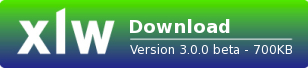
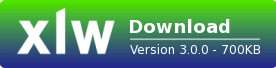
update docs for version 3 final release

Changed region(s): [[0.029, 0.1176, 0.9565, 0.7941], [0.9855, 0.0, 1.0, 0.0294], [0.9275, 0.5588, 0.9565, 0.5882]]

diff --git a/trunk/xlw-site/xlw.css b/trunk/xlw-site/xlw.css
@@ -211,7 +211,6 @@ dd { margin-left: 18px; }
 }
 
 .imglink:focus, .imglink:hover, .imglink:active, .imglink:visited {
-    background-color: transparent; /* override doxygen setting*/
     outline: none;
 }
 

diff --git a/trunk/xlw/include/xlw/XlfFuncDesc.h b/trunk/xlw/include/xlw/XlfFuncDesc.h
@@ -40,6 +40,9 @@ namespace xlw {
     /*!
     By registering your function, you make it available under Excel in
     any spreadsheet as well as in the function wizard.
+
+    \deprecated Consider using XLRegistration::XLFunctionRegistrationHelper
+    instead.
     */
     class EXCEL32_API XlfFuncDesc: public XlfAbstractCmdDesc
     {

diff --git a/trunk/xlw/include/xlw/XlfArgDesc.h b/trunk/xlw/include/xlw/XlfArgDesc.h
@@ -45,6 +45,8 @@ namespace xlw {
 
     The type defaults to the XLOPER type corresponding to the version (4 or 12) of
     the running instance of Excel.
+
+    \deprecated Consider using XLRegistration::Arg instead.
     */
     class EXCEL32_API XlfArgDesc
     {
